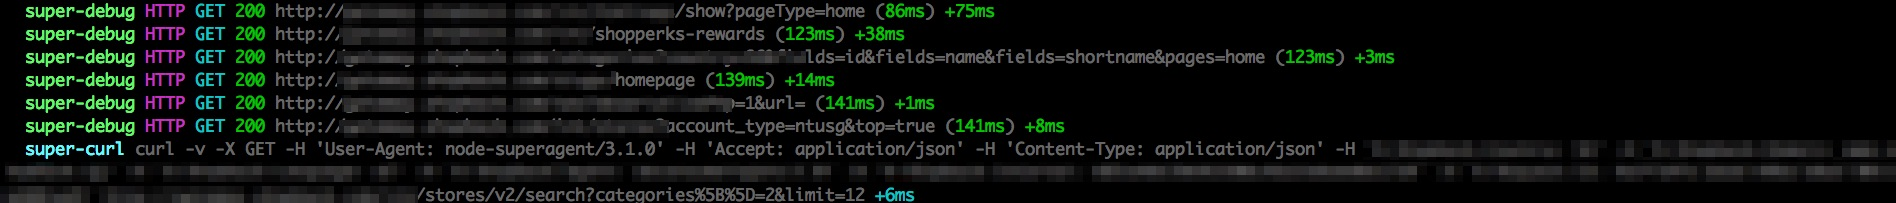
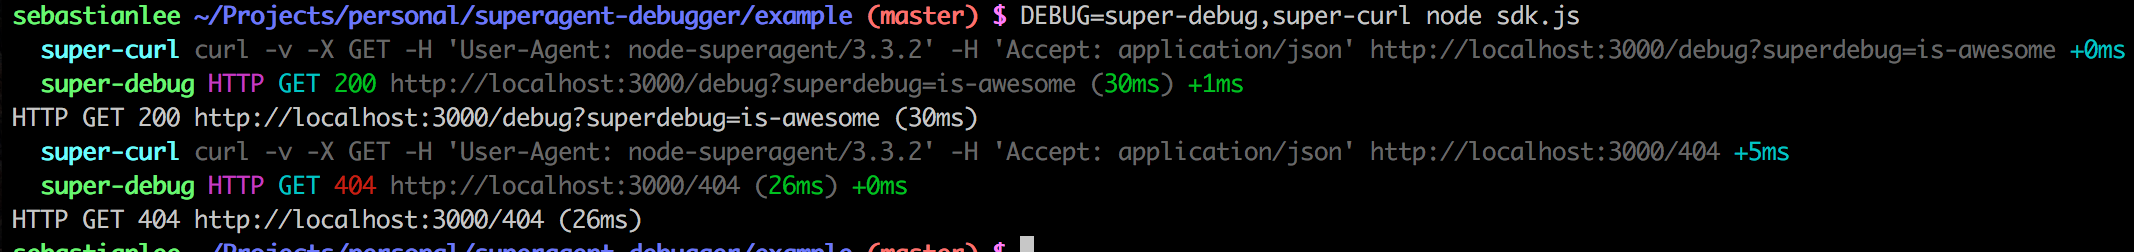
updated with examples

diff --git a/lib/index.js b/lib/index.js
@@ -3,37 +3,6 @@
 Object.defineProperty(exports, "__esModule", {
     value: true
 });
-
-exports.default = function (request) {
-    var logger = arguments.length > 1 && arguments[1] !== undefined ? arguments[1] : null;
-    var options = arguments.length > 2 && arguments[2] !== undefined ? arguments[2] : {
-        logName: 'super-debug',
-        curlName: 'super-curl'
-    };
-
-    var debugLog = _debug(options.logName);
-    var debugCurl = _debug(options.curlName);
-
-    var requestUrl = constructUrl(request.url, request.qs);
-    var curl = mapRequestToCurl(request, requestUrl);
-    debugCurl.apply(null, [chalk.gray(curl)]);
-
-    var start = new Date().getTime();
-    var uri = url.parse(request.url);
-
-    request.on('response', function (response) {
-        var now = new Date().getTime();
-        var elapsed = now - start;
-        var protocol = uri.protocol.toUpperCase().replace(/[^\w]/g, '');
-        var requestMethod = request.method.toUpperCase();
-        var responseStatus = response.status;
-        var elapseTime = elapsed + 'ms';
-
-        debugLog.apply(null, ['%s %s %s %s %s', chalk.magenta(protocol), chalk.cyan(requestMethod), chalk[getColorByResponseStatus(responseStatus)](responseStatus), chalk.gray(requestUrl), chalk.gray('(') + chalk[getColorByResponseSpeed(elapsed)](elapseTime) + chalk.gray(')')]);
-        logger(protocol + ' ' + requestMethod + ' ' + responseStatus + ' ' + requestUrl + ' (' + elapseTime + ')');
-    });
-};
-
 var reduce = require('lodash/reduce');
 var isEmpty = require('lodash/isEmpty');
 var queryString = require('query-string');
@@ -79,4 +48,38 @@ var getColorByResponseSpeed = function getColorByResponseSpeed(ms) {
         return 'yellow';
     }
     return 'red';
+};
+
+var handleResponse = function handleResponse(request, start, logger, debugLog, debugCurl) {
+    return function (response) {
+        var now = new Date().getTime();
+        var elapsed = now - start;
+        var elapseTime = elapsed + 'ms';
+
+        var uri = url.parse(request.url);
+        var protocol = uri.protocol.toUpperCase().replace(/[^\w]/g, '');
+        var requestMethod = request.method.toUpperCase();
+        var responseStatus = response.status;
+
+        var requestUrl = constructUrl(request.url, request.qs);
+        var curl = mapRequestToCurl(request, requestUrl);
+
+        debugCurl.apply(null, [chalk.gray(curl)]);
+
+        debugLog.apply(null, ['%s %s %s %s %s', chalk.magenta(protocol), chalk.cyan(requestMethod), chalk[getColorByResponseStatus(responseStatus)](responseStatus), chalk.gray(requestUrl), chalk.gray('(') + chalk[getColorByResponseSpeed(elapsed)](elapseTime) + chalk.gray(')')]);
+        logger(protocol + ' ' + requestMethod + ' ' + responseStatus + ' ' + requestUrl + ' (' + elapseTime + ')');
+    };
+};
+
+exports.default = function () {
+    var logger = arguments.length > 0 && arguments[0] !== undefined ? arguments[0] : null;
+    var options = arguments.length > 1 && arguments[1] !== undefined ? arguments[1] : { logName: 'super-debug', curlName: 'super-curl' };
+    return function (request) {
+        var debugLog = _debug(options.logName);
+        var debugCurl = _debug(options.curlName);
+
+        var start = new Date().getTime();
+
+        request.on('response', handleResponse(request, start, logger, debugLog, debugCurl));
+    };
 };

diff --git a/index.js b/index.js
@@ -42,36 +42,37 @@ const getColorByResponseSpeed = (ms) => {
     return 'red';
 };
 
-export default function (request, logger = null, options = {
-    logName: 'super-debug',
-    curlName: 'super-curl'
-}) {
-    const debugLog = _debug(options.logName);
-    const debugCurl = _debug(options.curlName);
+const handleResponse = (request, start, logger, debugLog, debugCurl) => (response) => {
+    const now = new Date().getTime();
+    const elapsed = now - start;
+    const elapseTime = elapsed + 'ms';
+
+    const uri = url.parse(request.url);
+    const protocol = uri.protocol.toUpperCase().replace(/[^\w]/g, '');
+    const requestMethod = request.method.toUpperCase();
+    const responseStatus = response.status;
 
     const requestUrl = constructUrl(request.url, request.qs);
     const curl = mapRequestToCurl(request, requestUrl);
+
     debugCurl.apply(null, [chalk.gray(curl)]);
 
+    debugLog.apply(null, [
+        '%s %s %s %s %s',
+        chalk.magenta(protocol),
+        chalk.cyan(requestMethod),
+        chalk[getColorByResponseStatus(responseStatus)](responseStatus),
+        chalk.gray(requestUrl),
+        chalk.gray('(') + chalk[getColorByResponseSpeed(elapsed)](elapseTime) + chalk.gray(')')
+    ])
+    logger(`${protocol} ${requestMethod} ${responseStatus} ${requestUrl} (${elapseTime})`)
+}
+
+export default (logger = null, options = {logName: 'super-debug', curlName: 'super-curl'}) => (request) => {
+    const debugLog = _debug(options.logName);
+    const debugCurl = _debug(options.curlName);
+
     const start = new Date().getTime();
-    const uri = url.parse(request.url);
 
-    request.on('response', function (response) {
-        const now = new Date().getTime();
-        const elapsed = now - start;
-        const protocol = uri.protocol.toUpperCase().replace(/[^\w]/g, '');
-        const requestMethod = request.method.toUpperCase();
-        const responseStatus = response.status;
-        const elapseTime = elapsed + 'ms';
-
-        debugLog.apply(null, [
-            '%s %s %s %s %s',
-            chalk.magenta(protocol),
-            chalk.cyan(requestMethod),
-            chalk[getColorByResponseStatus(responseStatus)](responseStatus),
-            chalk.gray(requestUrl),
-            chalk.gray('(') + chalk[getColorByResponseSpeed(elapsed)](elapseTime) + chalk.gray(')')
-        ])
-        logger(`${protocol} ${requestMethod} ${responseStatus} ${requestUrl} (${elapseTime})`)
-    });
+    request.on('response', handleResponse(request, start, logger, debugLog, debugCurl));
 }

diff --git a/example/sdk.js b/example/sdk.js
@@ -1,0 +1,18 @@
+let superagent = require('superagent');
+let superdebug = require('../lib/index').default;
+
+superagent
+    .get('http://localhost:3000/debug')
+    .set({Accept: 'application/json'})
+    .query({superdebug: 'is-awesome'})
+    .use(superdebug(console.info))
+    .timeout(10000)
+    .send()
+    .end();
+
+superagent
+    .get('http://localhost:3000/404')
+    .set({Accept: 'application/json'})
+    .use(superdebug(console.info))
+    .send()
+    .end();

diff --git a/example/index.js b/example/index.js
@@ -1,0 +1,15 @@
+let express = require('express')
+let app = express()
+
+app.get('/debug', function (req, res) {
+    res.json({message: 'What an awesome debugger'})
+})
+
+app.get('/404', function (req, res) {
+    res.status(404).end();
+})
+
+app.listen(3000, function () {
+    console.log('Superagent-debugger app listening on port 3000!')
+})
+

diff --git a/README.md b/README.md
@@ -16,44 +16,43 @@ npm install --save superagent-debugger
 ### Usage
 
 ```js
-import superagent from 'superagent';
-import superdebug from 'superagent-debugger';
-import EventEmitter from 'events';
+let superagent = require('superagent');
+let superdebug = require('../lib/index').default;
 
-const eventEmitter = new EventEmitter();
-const request = superagent(httpMethod, url);
+let request = superagent('GET', 'http://localhost:3000/debug')
 
-request.set(headers)
-        .query(query)
-        .timeout(defaultTimeout)
-        .send(data);
-
-eventEmitter.emit('sendRequest', request);
-
-eventEmitter.on('sendRequest', (request) => {
-    superDebug(request, console.info);
-});
-
+request
+    .set({Accept: 'application/json'})
+    .query({superdebug: 'is-awesome'})
+    .use(superdebug(console.info))
+    .timeout(10000)
+    .send()
+    .end()
 ```
 
 ### Output Log
 ```log
-curl -v -X GET -H 'User-Agent: node-superagent/3.1.0' -H 'Accept: application/json' -H 'Content-Type: application/json' http://gateway.me/sebastian","timestamp":"2017-01-22T13:44:23.498Z
-HTTP GET 200 http://gateway.me/sebastian (89ms)","timestamp":"2017-01-22T13:44:23.585Z
+super-curl curl -v -X GET -H 'User-Agent: node-superagent/3.3.2' -H 'Accept: application/json' http://localhost:3000/debug?superdebug=is-awesome +0ms
+super-debug HTTP GET 200 http://localhost:3000/debug?superdebug=is-awesome (23ms) +25ms
 ```
 
 ### Using Debug
- `DEBUG=super-curl,super-debug npm run server:watch`
- 
+ ```
+ DEBUG=super-debug,super-curl node sdk.js
+ ```
 ![screeshot1](https://raw.githubusercontent.com/sebastianlzy/superagent-debugger/master/sample-log.jpg)
 
 ### options
 
 ```js
- eventEmitter.on('sendRequest', (request) => {
-        superdebug(request, logger.info, {
-            logName: 'SDK',
-            curlName: 'CURL'
-        });
-    });
+const options = {logName: 'logDebug', curlName: 'curlDebug'}
+    
+ request
+     .set({Accept: 'application/json'})
+     .query({superdebug: 'is-awesome'})
+     .use(superdebug(console.info, options))
+```
+
+```
+DEBUG=logDebug,curlDebug node sdk.js
 ```
